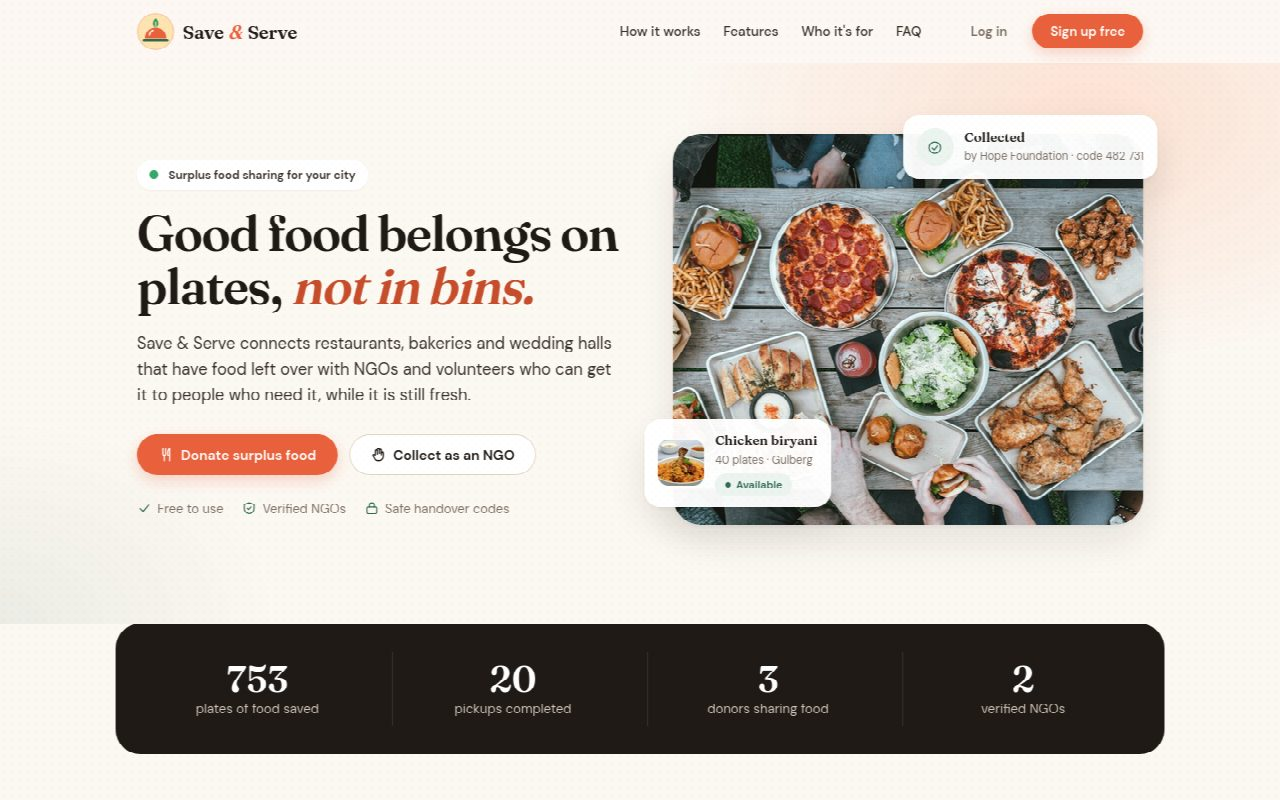
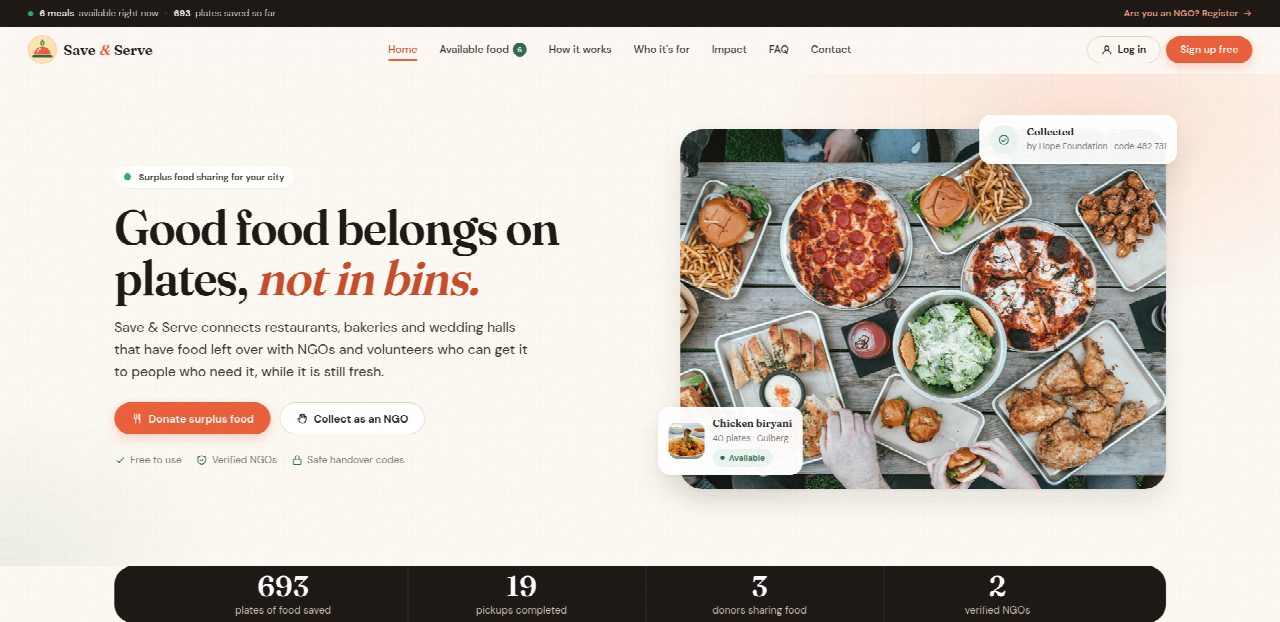
Homepage: live info bar, full-width navbar and wider layout
A dark info bar shows how many meals are available right now and how many plates have been saved, with a link for NGOs. The navbar now spans the full width with the logo on the left and Log in / Sign up on the right, and links to Home, Available food (with a live count), How it works, Who it's for, Impact, FAQ and Contact; the current section is highlighted while scrolling. Content is wider on large screens, the Available food section always shows (with an empty state), and the footer has a Contact block.

diff --git a/assets/css/style.css b/assets/css/style.css
@@ -797,7 +797,7 @@ body.landing { background: var(--paper); }
     .l-roles, .l-preview { grid-template-columns: 1fr 1fr; }
     .site-links { gap: 1.1rem; }
 }
-@media (max-width: 900px) {
+@media (max-width: 1020px) {
     .nav-toggle { display: flex; }
     .site-links { position: absolute; top: 100%; left: 0; right: 0; flex-direction: column; align-items: stretch; gap: 0; padding: .5rem 1.5rem 1.2rem; background: #fff; border-bottom: 1px solid var(--line); box-shadow: var(--shadow); display: none; }
     .nav-open .site-links { display: flex; }
@@ -838,3 +838,45 @@ body.landing { background: var(--paper); }
 /* Boxed bands keep breathing room at every width (their own padding replaces the container's) */
 .l-numbers-grid, .l-cta-box { width: calc(100% - 2 * clamp(1rem, 4vw, 3.5rem)); max-width: calc(1440px - 7rem); margin-left: auto; margin-right: auto; }
 @media (max-width: 600px) { .l-numbers-grid, .l-cta-box { width: calc(100% - 2rem); } }
+
+/* ---- Homepage v2: info bar, full-width navbar, wider content ---- */
+.l-container { max-width: 1680px; padding: 0 clamp(1rem, 4.5vw, 5rem); }
+.l-numbers-grid, .l-cta-box { width: calc(100% - 2 * clamp(1rem, 4.5vw, 5rem)); max-width: calc(1680px - 10rem); }
+
+.topbar { background: var(--ink); color: #e9e1d8; font-size: .84rem; }
+.topbar-inner { display: flex; justify-content: space-between; align-items: center; gap: 1rem; padding: .5rem clamp(1rem, 3vw, 2.5rem); }
+.topbar-live { display: inline-flex; align-items: center; gap: .4rem; flex-wrap: wrap; }
+.topbar-live strong { color: #fff; font-weight: 600; }
+.topbar-sep { opacity: .5; margin: 0 .2rem; }
+.topbar-links a { color: #f3a184; font-weight: 600; display: inline-flex; align-items: center; gap: .3rem; }
+.topbar-links a:hover { color: #fff; text-decoration: none; }
+.topbar .live-dot { width: 8px; height: 8px; margin-right: .15rem; vertical-align: 0; }
+
+.site-nav-inner { max-width: none; padding: .8rem clamp(1rem, 3vw, 2.5rem); gap: 1.5rem; }
+.site-nav .brand { flex-shrink: 0; }
+.site-links { flex: 1; justify-content: center; gap: clamp(1rem, 2vw, 2rem); }
+.site-links > a { display: inline-flex; align-items: center; gap: .35rem; white-space: nowrap; }
+.site-links > a.is-current { color: var(--primary-dark); }
+.site-links > a.is-current::after { transform: scaleX(1); }
+.nav-badge { display: inline-grid; place-items: center; min-width: 20px; height: 20px; padding: 0 .35rem; border-radius: 999px; background: var(--green); color: #fff; font-size: .7rem; font-weight: 700; }
+.site-auth { display: flex; align-items: center; gap: .55rem; flex-shrink: 0; }
+.site-auth .btn-outline { background: transparent; }
+.site-links-auth-mobile { display: none; }
+
+@media (max-width: 1180px) {
+    .site-links { gap: 1rem; }
+    .site-links > a { font-size: .9rem; }
+}
+@media (max-width: 1020px) {
+    .site-auth { display: none; }
+    .site-links-auth-mobile { display: flex; }
+    .site-links { justify-content: flex-start; }
+}
+@media (max-width: 900px) {
+    .site-links > a { justify-content: space-between; }
+}
+@media (max-width: 600px) {
+    .topbar-sep, .topbar-live strong + span { display: inline; }
+    .topbar-links { display: none; }
+    .topbar-inner { justify-content: center; text-align: center; }
+}

diff --git a/assets/js/app.js b/assets/js/app.js
@@ -43,6 +43,22 @@
         onScroll();
     }
 
+    // ---- Highlight the navbar link of the section being read ----
+    var spyLinks = document.querySelectorAll('.site-links > a[href^="#"]');
+    if (spyLinks.length && 'IntersectionObserver' in window) {
+        var byId = {};
+        spyLinks.forEach(function (a) { byId[a.getAttribute('href').slice(1)] = a; });
+        var spy = new IntersectionObserver(function (entries) {
+            entries.forEach(function (en) {
+                if (en.isIntersecting && byId[en.target.id]) {
+                    spyLinks.forEach(function (a) { a.classList.remove('is-current'); });
+                    byId[en.target.id].classList.add('is-current');
+                }
+            });
+        }, { rootMargin: '-45% 0px -50% 0px' });
+        Object.keys(byId).forEach(function (id) { var el = document.getElementById(id); if (el) { spy.observe(el); } });
+    }
+
     // ---- Fade sections in as they scroll into view (staggered within a row) ----
     var reveals = document.querySelectorAll('.scroll-reveal');
     if (reveals.length) {

diff --git a/index.php b/index.php
@@ -17,6 +17,8 @@ $numbers = $pdo->query(
             (SELECT COUNT(*) FROM ngos WHERE is_verified = 1) AS ngos"
 )->fetch();
 
+$openNow = (int) $pdo->query("SELECT COUNT(*) FROM food_posts WHERE status = 'available' AND pickup_until > NOW()")->fetchColumn();
+
 // A small, public preview of food that is open right now (area and city only, never the address).
 $preview = $pdo->query(
     "SELECT p.title, p.quantity, p.unit, p.pickup_until, c.name AS category, l.area, l.city
@@ -24,7 +26,7 @@ $preview = $pdo->query(
      LEFT JOIN food_categories c ON c.id = p.category_id
      LEFT JOIN locations l ON l.id = p.pickup_location_id
      WHERE p.status = 'available' AND p.pickup_until > NOW()
-     ORDER BY p.pickup_until ASC LIMIT 3"
+     ORDER BY p.pickup_until ASC LIMIT 6"
 )->fetchAll();
 
 $features = [
@@ -52,6 +54,21 @@ $bodyClass = 'landing';
 require __DIR__ . '/includes/header.php';
 ?>
 <!-- ============================ Navbar ============================ -->
+<!-- Live info bar -->
+<div class="topbar">
+    <div class="topbar-inner">
+        <span class="topbar-live"><span class="live-dot"></span>
+            <strong><?= plural($openNow, 'meal') ?></strong> available right now
+            <span class="topbar-sep">·</span>
+            <strong><?= number_format((int) $numbers['plates']) ?></strong> plates saved so far
+        </span>
+        <span class="topbar-links">
+            <a href="signup.php?role=ngo">Are you an NGO? Register <?= icon('arrow-right') ?></a>
+        </span>
+    </div>
+</div>
+
+<!-- Navbar (full width: logo on the left, account buttons on the right) -->
 <header class="site-nav" data-nav>
     <div class="site-nav-inner">
         <a class="brand" href="index.php">
@@ -59,22 +76,29 @@ require __DIR__ . '/includes/header.php';
             <span>Save <b>&amp;</b> Serve</span>
         </a>
         <nav class="site-links" id="site-links" aria-label="Main">
+            <a href="#top" class="is-current">Home</a>
+            <a href="#now">Available food<?php if ($openNow): ?> <span class="nav-badge"><?= $openNow ?></span><?php endif; ?></a>
             <a href="#how">How it works</a>
-            <a href="#features">Features</a>
             <a href="#who">Who it's for</a>
+            <a href="#impact">Impact</a>
             <a href="#faq">FAQ</a>
-            <span class="site-links-auth">
-                <a class="btn btn-ghost" href="login.php">Log in</a>
+            <a href="#contact">Contact</a>
+            <span class="site-links-auth site-links-auth-mobile">
+                <a class="btn btn-outline" href="login.php"><?= icon('user') ?> Log in</a>
                 <a class="btn btn-primary" href="signup.php">Sign up free</a>
             </span>
         </nav>
+        <div class="site-auth">
+            <a class="btn btn-outline" href="login.php"><?= icon('user') ?> Log in</a>
+            <a class="btn btn-primary" href="signup.php">Sign up free</a>
+        </div>
         <button class="nav-toggle" type="button" aria-label="Open menu" aria-expanded="false" aria-controls="site-links" data-nav-toggle>
             <span></span><span></span><span></span>
         </button>
     </div>
 </header>
 
-<main class="landing-main">
+<main class="landing-main" id="top">
     <!-- ============================ Hero ============================ -->
     <section class="l-hero">
         <div class="l-container l-hero-grid">
@@ -115,7 +139,7 @@ require __DIR__ . '/includes/header.php';
     </section>
 
     <!-- ============================ Impact numbers ============================ -->
-    <section class="l-numbers">
+    <section class="l-numbers" id="impact">
         <div class="l-container l-numbers-grid">
             <div class="l-number scroll-reveal"><strong data-count="<?= (int) $numbers['plates'] ?>"><?= (int) $numbers['plates'] ?></strong><span>plates of food saved</span></div>
             <div class="l-number scroll-reveal"><strong data-count="<?= (int) $numbers['pickups'] ?>"><?= (int) $numbers['pickups'] ?></strong><span>pickups completed</span></div>
@@ -227,7 +251,6 @@ require __DIR__ . '/includes/header.php';
     </section>
 
     <!-- ============================ Available now ============================ -->
-    <?php if ($preview): ?>
     <section class="l-section l-section-tint" id="now">
         <div class="l-container">
             <div class="l-heading scroll-reveal">
@@ -235,6 +258,14 @@ require __DIR__ . '/includes/header.php';
                 <h2>Food waiting to be rescued</h2>
                 <p>A live look at what donors have posted. Log in as a verified NGO or volunteer to claim it.</p>
             </div>
+            <?php if (!$preview): ?>
+            <div class="empty scroll-reveal">
+                <span class="empty-icon"><?= icon('inbox') ?></span>
+                <h3>Nothing open right now</h3>
+                <p>New food appears here the moment a donor posts it. Have something to share?</p>
+                <a class="btn btn-primary" href="signup.php?role=donor">Donate surplus food</a>
+            </div>
+            <?php else: ?>
             <div class="l-preview">
                 <?php foreach ($preview as $p): ?>
                 <?php [, , $photo] = category_style($p['category']); [$left, $tone] = time_left($p['pickup_until']); ?>
@@ -257,9 +288,9 @@ require __DIR__ . '/includes/header.php';
                 </article>
                 <?php endforeach; ?>
             </div>
+            <?php endif; ?>
         </div>
     </section>
-    <?php endif; ?>
 
     <!-- ============================ Why it matters ============================ -->
     <section class="l-section">
@@ -332,10 +363,11 @@ require __DIR__ . '/includes/header.php';
             <a href="signup.php?role=ngo">Register an NGO</a>
             <a href="signup.php?role=volunteer">Volunteer</a>
         </div>
-        <div>
-            <h4>Account</h4>
-            <a href="login.php">Log in</a>
-            <a href="signup.php">Sign up</a>
+        <div id="contact">
+            <h4>Contact</h4>
+            <a href="mailto:hello@saveandserve.test"><?= icon('mail') ?> hello@saveandserve.test</a>
+            <a href="login.php"><?= icon('user') ?> Log in</a>
+            <a href="signup.php"><?= icon('plus') ?> Create an account</a>
         </div>
     </div>
     <div class="l-container site-footer-bottom">
